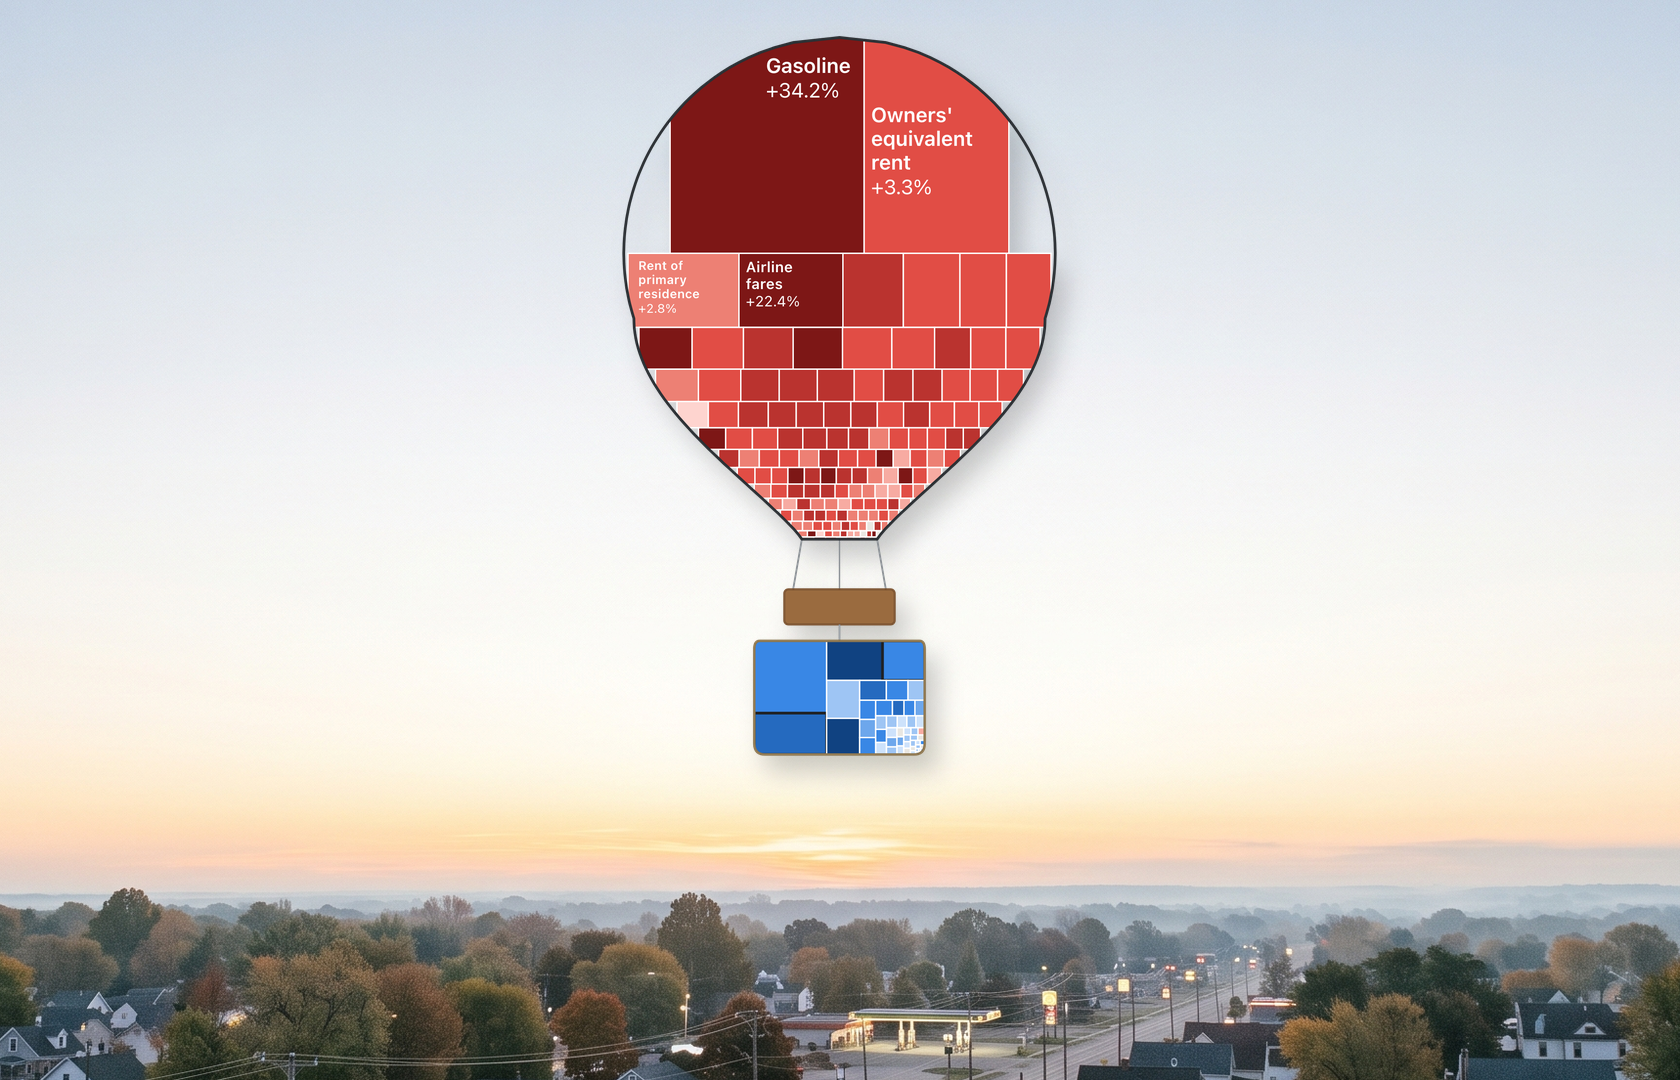
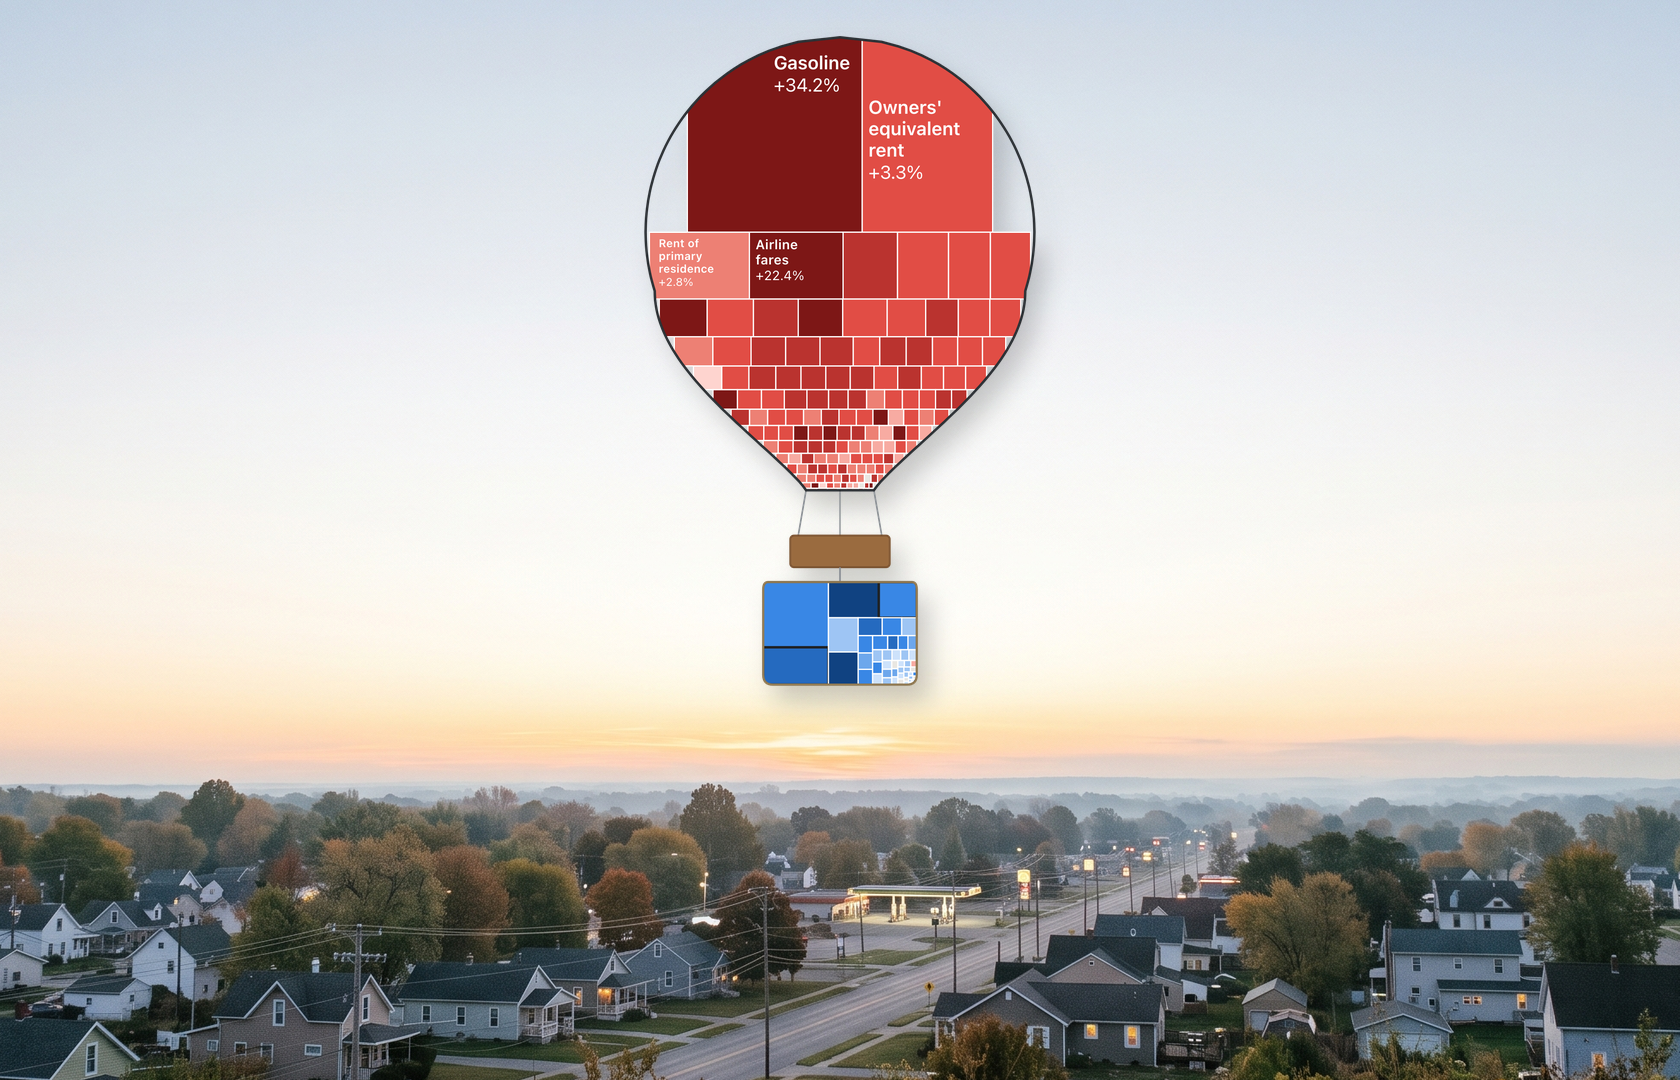
cpi-september-2026: hero zoom eased (top 82%, balloon 650px)

diff --git a/scripts/build.py b/scripts/build.py
@@ -169,10 +169,10 @@ def hero():
         return
     bg = Image.open(backdrop).convert("RGB")
     w0, h0 = bg.size
-    ch = int(h0 * 0.72)                             # zoom in: keep the sky and a strip of town below the horizon
+    ch = int(h0 * 0.82)                             # zoom in: keep the sky and a strip of town below the horizon
     tw = int(ch * 1680 / 1080)                      # centered, in 1680x1080's shape
     bg = bg.crop(((w0 - tw) // 2, 0, (w0 - tw) // 2 + tw, ch)).resize((1680, 1080), Image.LANCZOS)
-    h = 720                                         # balloon height on the hero; sandbag clears the horizon
+    h = 650                                         # balloon height on the hero; sandbag clears the horizon
     w = int(cut.width * h / cut.height)
     cut = cut.resize((w, h), Image.LANCZOS)
     pad = 60                                        # soft shadow, down and to the right

diff --git a/posts/cpi-september-2026/hero-prompt.md b/posts/cpi-september-2026/hero-prompt.md
@@ -30,5 +30,5 @@ Calm and still. Natural colors, 24mm lens. No text, no signs, no logos.
 Prompt 1, generated in Gemini by Eric. Backdrop: images/cpi-september-2026-hero-source.jpg
 (2752x1536). scripts/build.py center-crops it to 1680x1080 and lays the
 balloon cutout (images/cpi-september-2026-balloon-cutout.png) over the sky,
-720px tall, centered, with a soft shadow, after cropping to the top 72% of the photo (sky plus a strip of town).
+650px tall, centered, with a soft shadow, after cropping to the top 82% of the photo (sky plus a strip of town).
 Alt (under 500 characters): see hero_alt in POST.md.
